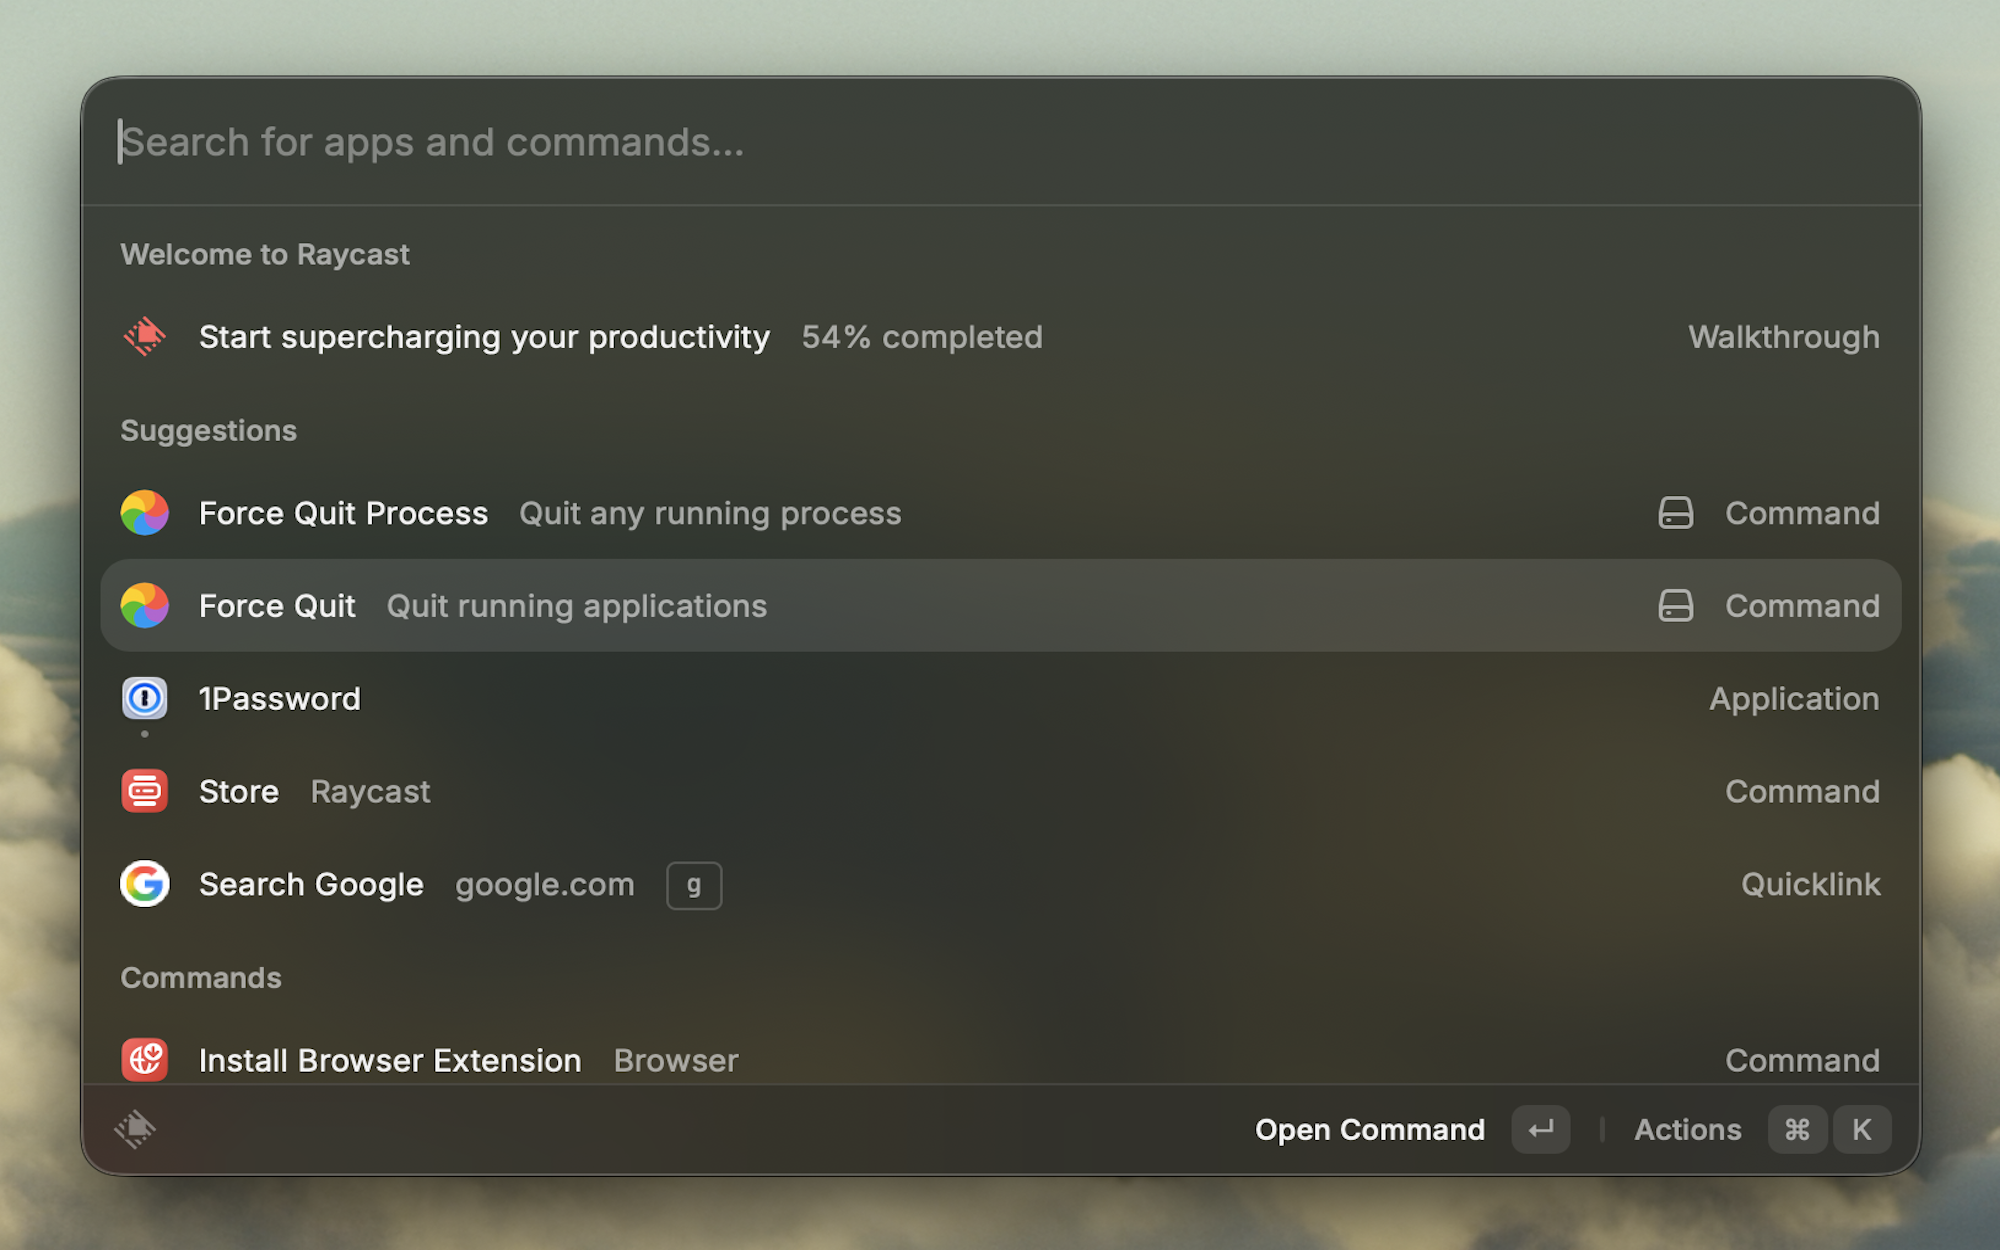
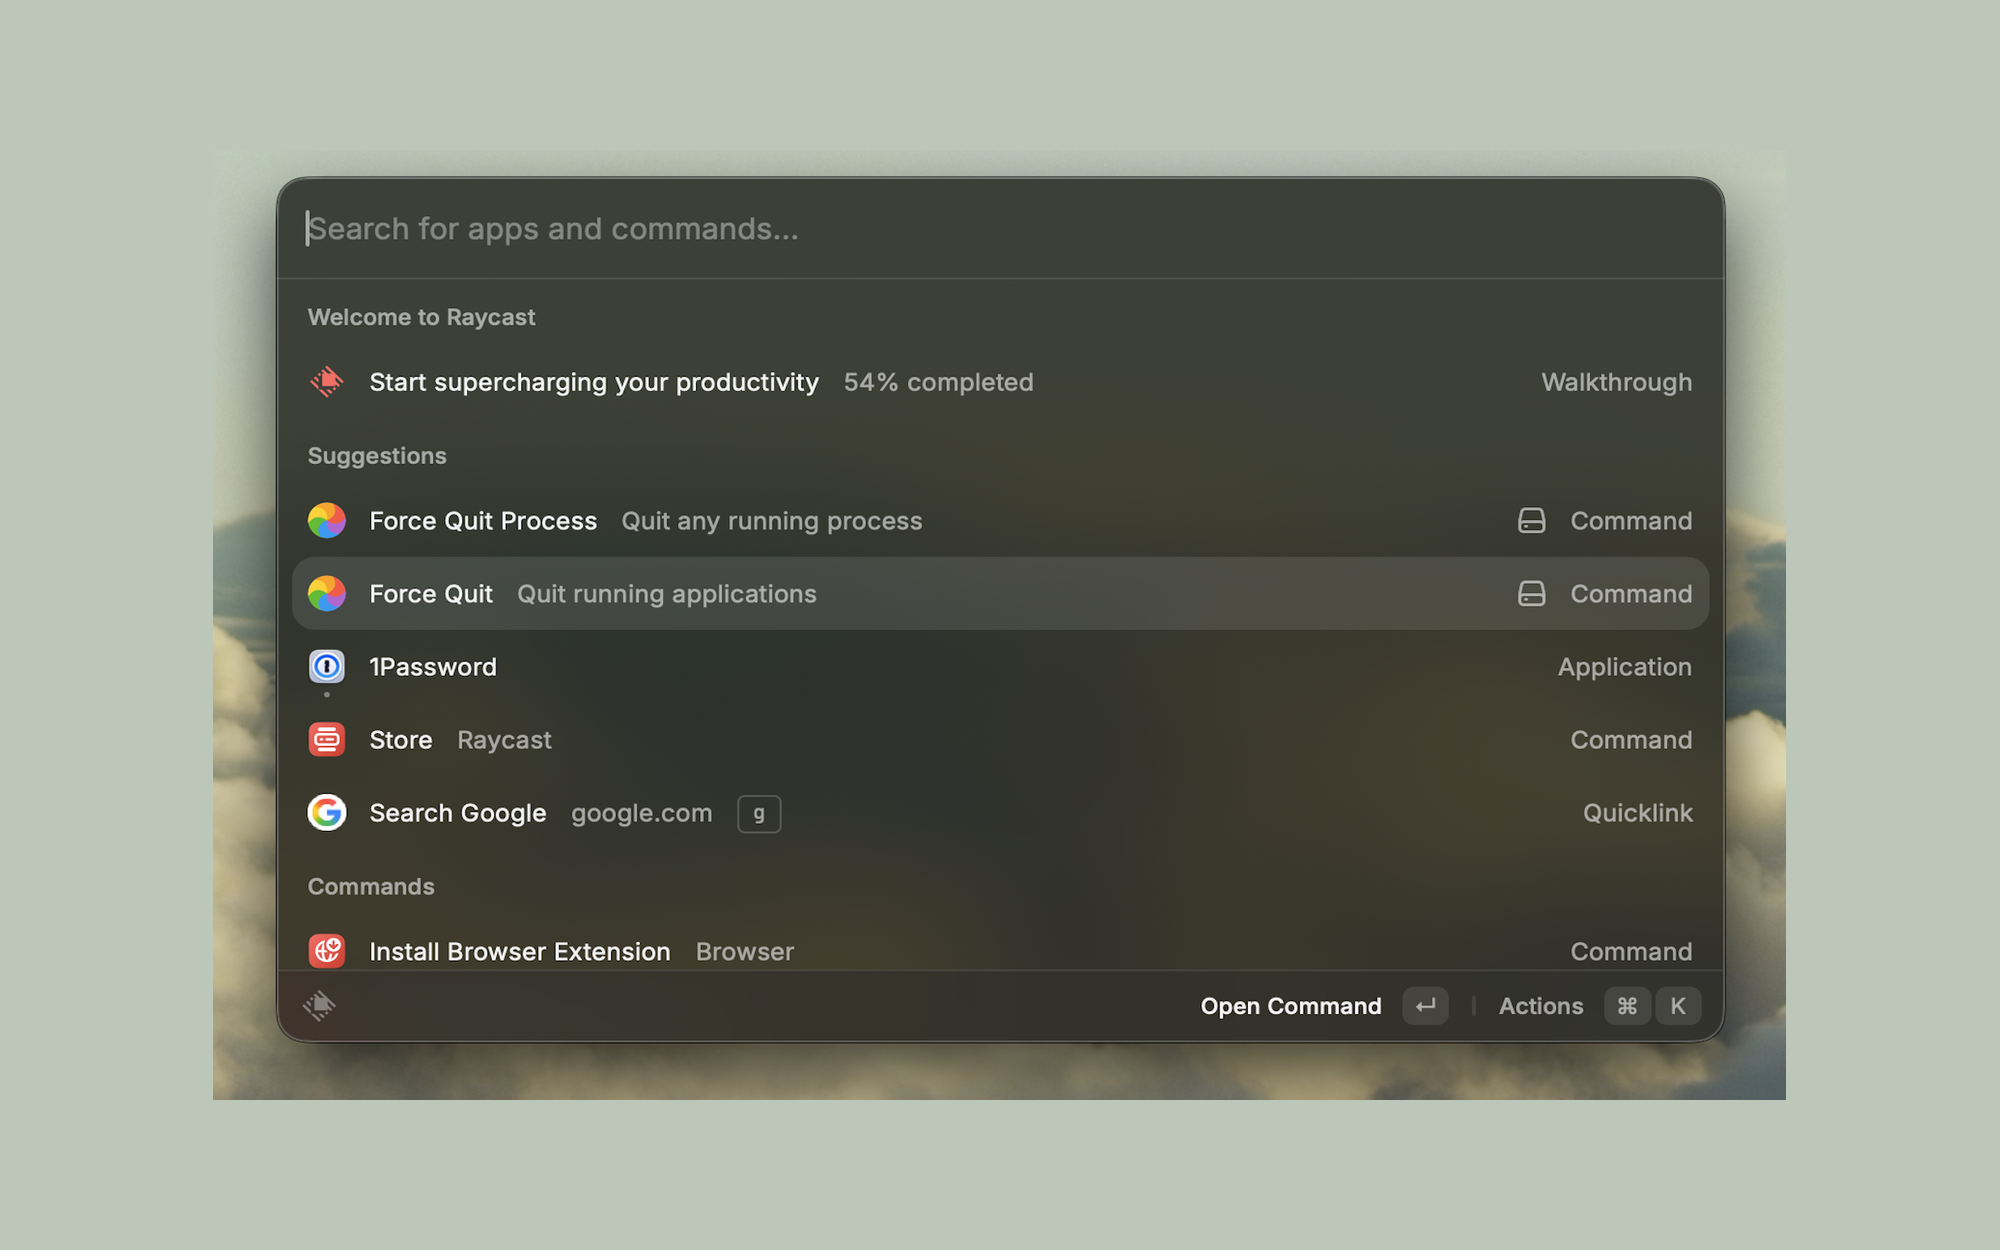
Sync to PR version: CPU usage, memory/CPU sort, auto-refresh, privileged kill

diff --git a/src/lib/processes.ts b/src/lib/processes.ts
@@ -6,21 +6,26 @@ import type { RunningProcess } from "../types";
 
 const execFileAsync = promisify(execFile);
 
-async function listProcesses(): Promise<{ pid: number; name: string; memoryMB: number }[]> {
-  const { stdout } = await execFileAsync("/bin/ps", ["-axo", "pid=,rss=,comm="], {
+type RawProcess = { pid: number; name: string; memoryMB: number; cpuPercent: number };
+
+async function listProcesses(): Promise<RawProcess[]> {
+  const { stdout } = await execFileAsync("/bin/ps", ["-axo", "pid=,rss=,%cpu=,comm="], {
     maxBuffer: 5 * 1024 * 1024,
   });
-  const processes: { pid: number; name: string; memoryMB: number }[] = [];
+  const processes: RawProcess[] = [];
   for (const line of stdout.split("\n")) {
     if (!line.trim()) continue;
-    // Split into at most 3 tokens: pid, rss, comm-with-spaces
-    const match = line.match(/^\s*(\d+)\s+(\d+)\s+(.*)$/);
+    // Split into at most 4 tokens: pid, rss, %cpu, comm-with-spaces
+    const match = line.match(/^\s*(\d+)\s+(\d+)\s+([\d.]+)\s+(.*)$/);
     if (!match) continue;
     const pid = Number.parseInt(match[1], 10);
     const rssKB = Number.parseInt(match[2], 10);
-    const name = match[3].trim();
+    const cpu = Number.parseFloat(match[3]);
+    // macOS `comm` is the full executable path; show just the basename as the title.
+    const comm = match[4].trim();
+    const name = comm.split("/").pop() || comm;
     if (!Number.isFinite(pid) || !Number.isFinite(rssKB) || rssKB <= 0 || !name) continue;
-    processes.push({ pid, name, memoryMB: kbToMB(rssKB) });
+    processes.push({ pid, name, memoryMB: kbToMB(rssKB), cpuPercent: Number.isFinite(cpu) ? cpu : 0 });
   }
   return processes;
 }
@@ -38,10 +43,8 @@ async function getBundlePathByPid(): Promise<Map<number, string>> {
 
 export async function fetchAllProcesses(): Promise<RunningProcess[]> {
   const [rawProcesses, bundlePaths] = await Promise.all([listProcesses(), getBundlePathByPid()]);
-  return rawProcesses
-    .map((p) => {
-      const bundlePath = bundlePaths.get(p.pid);
-      return bundlePath ? { ...p, bundlePath } : p;
-    })
-    .sort((a, b) => b.memoryMB - a.memoryMB);
+  return rawProcesses.map((p) => {
+    const bundlePath = bundlePaths.get(p.pid);
+    return bundlePath ? { ...p, bundlePath } : p;
+  });
 }

diff --git a/src/process.tsx b/src/process.tsx
@@ -1,21 +1,49 @@
-import { Action, ActionPanel, Icon, List } from "@raycast/api";
+import { Action, ActionPanel, Color, Icon, List } from "@raycast/api";
 import { useCachedPromise } from "@raycast/utils";
+import { useMemo, useState } from "react";
 import { fetchAllProcesses } from "./lib/processes";
 import { killByPid } from "./lib/kill";
-import { formatMemoryMB } from "./lib/format";
+import { formatCpu, formatMemoryMB } from "./lib/format";
+import { compareBySortKey } from "./lib/sort";
+import { useAutoRefresh } from "./lib/useAutoRefresh";
+import type { SortKey } from "./types";
 
 export default function Command() {
   const { data, isLoading, revalidate } = useCachedPromise(fetchAllProcesses, [], { initialData: [] });
+  const [sortKey, setSortKey] = useState<SortKey>("memory");
+  useAutoRefresh(revalidate);
+
+  const sorted = useMemo(() => [...data].sort(compareBySortKey(sortKey)), [data, sortKey]);
 
   return (
-    <List isLoading={isLoading} searchBarPlaceholder="Search processes...">
+    <List
+      isLoading={isLoading}
+      searchBarPlaceholder="Search processes..."
+      searchBarAccessory={
+        <List.Dropdown tooltip="Sort by" value={sortKey} onChange={(value) => setSortKey(value as SortKey)}>
+          <List.Dropdown.Item title="Memory" value="memory" />
+          <List.Dropdown.Item title="CPU" value="cpu" />
+        </List.Dropdown>
+      }
+    >
       <List.EmptyView title="No processes found" />
-      {data.map((proc) => (
+      {sorted.map((proc) => (
         <List.Item
           key={proc.pid}
           icon={proc.bundlePath ? { fileIcon: proc.bundlePath } : Icon.Terminal}
           title={proc.name}
-          accessories={[{ tag: formatMemoryMB(proc.memoryMB) }]}
+          accessories={[
+            {
+              icon: { source: Icon.Gauge, tintColor: Color.PrimaryText },
+              text: formatCpu(proc.cpuPercent),
+              tooltip: "CPU",
+            },
+            {
+              icon: { source: Icon.MemoryChip, tintColor: Color.PrimaryText },
+              text: formatMemoryMB(proc.memoryMB),
+              tooltip: "Memory",
+            },
+          ]}
           actions={
             <ActionPanel>
               <Action

diff --git a/src/index.tsx b/src/index.tsx
@@ -1,21 +1,49 @@
-import { Action, ActionPanel, Icon, List } from "@raycast/api";
+import { Action, ActionPanel, Color, Icon, List } from "@raycast/api";
 import { useCachedPromise } from "@raycast/utils";
+import { useMemo, useState } from "react";
 import { fetchRunningApps } from "./lib/apps";
 import { killByPid } from "./lib/kill";
-import { formatMemoryMB } from "./lib/format";
+import { formatCpu, formatMemoryMB } from "./lib/format";
+import { compareBySortKey } from "./lib/sort";
+import { useAutoRefresh } from "./lib/useAutoRefresh";
+import type { SortKey } from "./types";
 
 export default function Command() {
   const { data, isLoading, revalidate } = useCachedPromise(fetchRunningApps, [], { initialData: [] });
+  const [sortKey, setSortKey] = useState<SortKey>("memory");
+  useAutoRefresh(revalidate);
+
+  const sorted = useMemo(() => [...data].sort(compareBySortKey(sortKey)), [data, sortKey]);
 
   return (
-    <List isLoading={isLoading} searchBarPlaceholder="Search applications...">
+    <List
+      isLoading={isLoading}
+      searchBarPlaceholder="Search applications..."
+      searchBarAccessory={
+        <List.Dropdown tooltip="Sort by" value={sortKey} onChange={(value) => setSortKey(value as SortKey)}>
+          <List.Dropdown.Item title="Memory" value="memory" />
+          <List.Dropdown.Item title="CPU" value="cpu" />
+        </List.Dropdown>
+      }
+    >
       <List.EmptyView title="No applications running" />
-      {data.map((app) => (
+      {sorted.map((app) => (
         <List.Item
           key={app.pid}
           icon={app.bundlePath ? { fileIcon: app.bundlePath } : Icon.AppWindow}
           title={app.name}
-          accessories={[{ text: formatMemoryMB(app.memoryMB) }]}
+          accessories={[
+            {
+              icon: { source: Icon.Gauge, tintColor: Color.PrimaryText },
+              text: formatCpu(app.cpuPercent),
+              tooltip: "CPU",
+            },
+            {
+              icon: { source: Icon.MemoryChip, tintColor: Color.PrimaryText },
+              text: formatMemoryMB(app.memoryMB),
+              tooltip: "Memory",
+            },
+          ]}
           actions={
             <ActionPanel>
               <Action

diff --git a/src/lib/apps.ts b/src/lib/apps.ts
@@ -6,20 +6,23 @@ import type { RunningApp } from "../types";
 
 const execFileAsync = promisify(execFile);
 
-async function batchMemoryByPid(pids: number[]): Promise<Map<number, number>> {
-  const result = new Map<number, number>();
+type Stats = { memoryMB: number; cpuPercent: number };
+
+async function batchStatsByPid(pids: number[]): Promise<Map<number, Stats>> {
+  const result = new Map<number, Stats>();
   if (pids.length === 0) return result;
-  const { stdout } = await execFileAsync("/bin/ps", ["-o", "pid=,rss=", "-p", pids.join(",")], {
+  const { stdout } = await execFileAsync("/bin/ps", ["-o", "pid=,rss=,%cpu=", "-p", pids.join(",")], {
     maxBuffer: 1024 * 1024,
   });
   for (const line of stdout.split("\n")) {
     const trimmed = line.trim();
     if (!trimmed) continue;
-    const [pidStr, rssStr] = trimmed.split(/\s+/);
+    const [pidStr, rssStr, cpuStr] = trimmed.split(/\s+/);
     const pid = Number.parseInt(pidStr, 10);
     const rssKB = Number.parseInt(rssStr, 10);
+    const cpu = Number.parseFloat(cpuStr);
     if (!Number.isFinite(pid) || !Number.isFinite(rssKB)) continue;
-    result.set(pid, kbToMB(rssKB));
+    result.set(pid, { memoryMB: kbToMB(rssKB), cpuPercent: Number.isFinite(cpu) ? cpu : 0 });
   }
   return result;
 }
@@ -28,8 +31,9 @@ export async function fetchRunningApps(): Promise<RunningApp[]> {
   const entries = await getLsAppEntries();
   // Replicate macOS' Force Quit window: only foreground apps (visible in Dock / Cmd+Tab).
   const foreground = entries.filter((e) => e.type === "Foreground");
-  const memory = await batchMemoryByPid(foreground.map((e) => e.pid));
-  return foreground
-    .map(({ name, pid, bundlePath }) => ({ name, pid, bundlePath, memoryMB: memory.get(pid) ?? 0 }))
-    .sort((a, b) => b.memoryMB - a.memoryMB);
+  const stats = await batchStatsByPid(foreground.map((e) => e.pid));
+  return foreground.map(({ name, pid, bundlePath }) => {
+    const s = stats.get(pid);
+    return { name, pid, bundlePath, memoryMB: s?.memoryMB ?? 0, cpuPercent: s?.cpuPercent ?? 0 };
+  });
 }

diff --git a/src/lib/kill.ts b/src/lib/kill.ts
@@ -1,9 +1,13 @@
 import { Alert, confirmAlert, showHUD } from "@raycast/api";
+import { execFile } from "node:child_process";
+import { promisify } from "node:util";
+
+const execFileAsync = promisify(execFile);
 
 export async function killByPid(pid: number, name: string): Promise<boolean> {
   const confirmed = await confirmAlert({
     title: `Force quit ${name}?`,
-    message: "This will immediately terminate the application.",
+    message: "This will immediately terminate the process.",
     primaryAction: { title: "Force Quit", style: Alert.ActionStyle.Destructive },
   });
 
@@ -13,7 +17,35 @@ export async function killByPid(pid: number, name: string): Promise<boolean> {
     process.kill(pid, "SIGKILL");
     await showHUD(`✓ ${name} force quit`);
     return true;
+  } catch (error) {
+    // Processes owned by root or another user reject an unprivileged SIGKILL with EPERM.
+    // Offer an authenticated retry that surfaces the native admin prompt.
+    if ((error as NodeJS.ErrnoException).code === "EPERM") {
+      return killWithPrivileges(pid, name);
+    }
+    await showHUD(`✗ Failed to quit ${name}`);
+    return false;
+  }
+}
+
+async function killWithPrivileges(pid: number, name: string): Promise<boolean> {
+  const escalate = await confirmAlert({
+    title: `${name} requires administrator privileges`,
+    message: "This process is owned by the system. Force quit as administrator?",
+    primaryAction: { title: "Force Quit as Admin", style: Alert.ActionStyle.Destructive },
+  });
+
+  if (!escalate) return false;
+
+  try {
+    await execFileAsync("/usr/bin/osascript", [
+      "-e",
+      `do shell script "/bin/kill -9 ${pid}" with administrator privileges`,
+    ]);
+    await showHUD(`✓ ${name} force quit`);
+    return true;
   } catch {
+    // Covers both a cancelled auth prompt and a failed kill.
     await showHUD(`✗ Failed to quit ${name}`);
     return false;
   }

diff --git a/src/lib/useAutoRefresh.ts b/src/lib/useAutoRefresh.ts
@@ -1,0 +1,15 @@
+import { getPreferenceValues } from "@raycast/api";
+import { useEffect } from "react";
+
+// Polls the list on an interval set by the `refreshInterval` preference (ms).
+// 0 or an unparseable value disables polling; anything below 1000ms is clamped up.
+export function useAutoRefresh(revalidate: () => void): void {
+  useEffect(() => {
+    const { refreshInterval } = getPreferenceValues<{ refreshInterval?: string }>();
+    const ms = Number.parseInt(refreshInterval ?? "", 10);
+    if (!Number.isFinite(ms) || ms <= 0) return;
+
+    const id = setInterval(revalidate, Math.max(ms, 1000));
+    return () => clearInterval(id);
+  }, [revalidate]);
+}

diff --git a/raycast-env.d.ts b/raycast-env.d.ts
@@ -7,7 +7,10 @@
 
 /* eslint-disable @typescript-eslint/ban-types */
 
-type ExtensionPreferences = {}
+type ExtensionPreferences = {
+  /** Auto-Refresh - How often to refresh the list, in milliseconds. Use 0 to disable. Minimum 1000. */
+  "refreshInterval": string
+}
 
 /** Preferences accessible in all the extension's commands */
 declare type Preferences = ExtensionPreferences

diff --git a/src/types.ts b/src/types.ts
@@ -1,13 +1,17 @@
+export type SortKey = "memory" | "cpu";
+
 export type RunningApp = {
   name: string;
   pid: number;
   bundlePath: string;
   memoryMB: number;
+  cpuPercent: number;
 };
 
 export type RunningProcess = {
   name: string;
   pid: number;
   memoryMB: number;
+  cpuPercent: number;
   bundlePath?: string;
 };

diff --git a/src/lib/sort.ts b/src/lib/sort.ts
@@ -1,0 +1,7 @@
+import type { SortKey } from "../types";
+
+type Sortable = { memoryMB: number; cpuPercent: number };
+
+export function compareBySortKey<T extends Sortable>(sortKey: SortKey): (a: T, b: T) => number {
+  return (a, b) => (sortKey === "cpu" ? b.cpuPercent - a.cpuPercent : b.memoryMB - a.memoryMB);
+}

diff --git a/src/lib/format.ts b/src/lib/format.ts
@@ -5,3 +5,7 @@ export function kbToMB(rssKB: number): number {
 export function formatMemoryMB(memoryMB: number): string {
   return `${memoryMB.toLocaleString()} MB`;
 }
+
+export function formatCpu(cpuPercent: number): string {
+  return `${cpuPercent.toFixed(1)}%`;
+}

diff --git a/README.md b/README.md
@@ -2,7 +2,7 @@
 
 Force quit running applications and processes from Raycast — like macOS' ⌥⌘⎋, but without leaving your keyboard.
 
-![Force Quit listing running applications sorted by memory usage](metadata/force-quit-2.png)
+![Force Quit listing running applications with memory and CPU usage](metadata/force-quit-2.png)
 
 ## Install (from source)
 
@@ -22,7 +22,7 @@ Requires [Raycast](https://raycast.com) (signed in — running a local extension
 ## Commands
 
 ### Force Quit
-List running applications sorted by memory usage. Select an app and press Enter to force quit it after a confirmation prompt.
+Lists running applications with their memory and CPU usage. Sort by either with the dropdown, then select an app and press `↵` to force quit it after a confirmation prompt.
 
 ### Force Quit Process
 Same flow, but lists *every* process on the system (background daemons included). Useful when an app is unresponsive but doesn't appear in the standard list.
@@ -30,9 +30,10 @@ Same flow, but lists *every* process on the system (background daemons included)
 ## Behavior
 
 - Selecting an item shows a confirm dialog. Confirming sends `SIGKILL` immediately — equivalent to macOS' built-in Force Quit.
+- Force-quitting a process owned by root or another user surfaces a native administrator prompt and kills it with elevated privileges.
+- The list auto-refreshes on an interval (default 2s) — change the interval or disable it (`0`) via the **Auto-Refresh** preference. `⌘R` also refreshes manually.
 - A HUD message confirms success or failure.
-- `⌘R` refreshes the list manually. The list does not auto-poll.
 
 ## Permissions
 
-Force Quit only reads the public macOS process list (`lsappinfo`, `ps`) — no Automation permission, Accessibility permission, or full‑disk access is required.
+Force Quit only reads the public macOS process list (`lsappinfo`, `ps`) — no Automation permission, Accessibility permission, or full‑disk access is required. Force-quitting a privileged process additionally triggers the standard macOS administrator password prompt.
